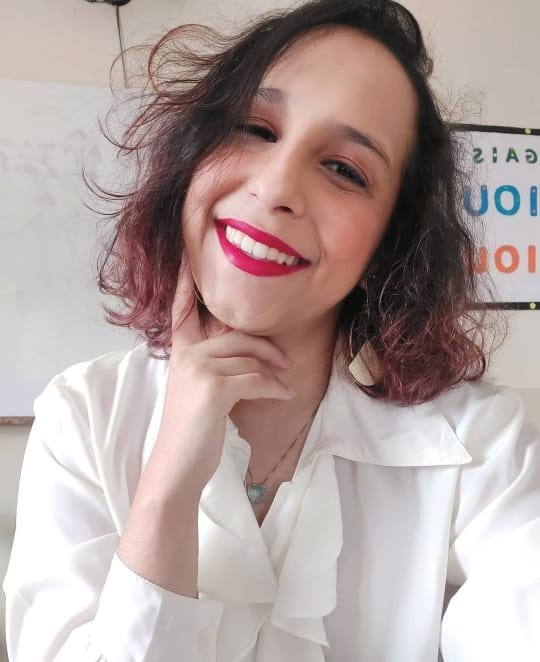
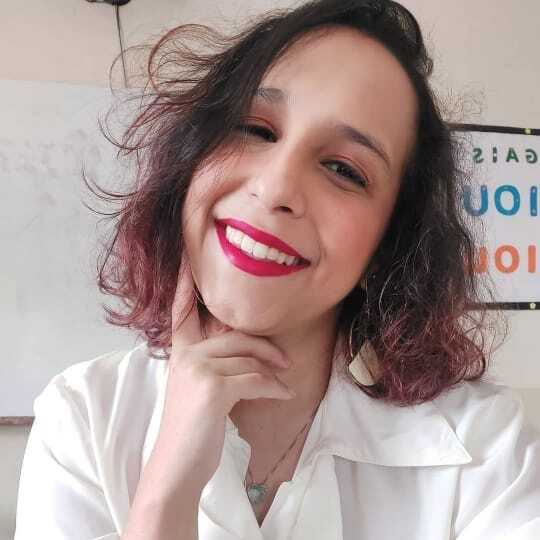
update

diff --git a/index.html b/index.html
@@ -12,9 +12,9 @@
         integrity="sha384-QWTKZyjpPEjISv5WaRU9OFeRpok6YctnYmDr5pNlyT2bRjXh0JMhjY6hW+ALEwIH" crossorigin="anonymous">
 </head>
 
-<body>
+<body style="background-color: #fef8ec;">
 
-    <nav class="navbar navbar-expand-lg">
+    <nav class="navbar navbar-expand-lg" style="background-color: white">
         <div class="container-fluid">
             <a class="navbar-brand" href="#">
                 <img src="images/logo.png" width="50" height="50" alt="LOGO" class="">
@@ -40,8 +40,8 @@
         </div>
     </nav>
 
-    <div class="mb-4 bg-body-tertiary rounded-3">
-        <div class="container-fluid py-5">
+    <div class="mb-4 bg-body-tertiary rounded-3" style="background-color: #fef8ec;">
+        <div class="container-fluid py-5" style="background-color: #fef8ec;">
             <div class="row">
                 <div class="col d-none d-md-flex align-items-center justify-content-center mb-4">
                     <img src="images/logo.png" width="300" height="300" alt="LOGO" class="">
@@ -54,7 +54,7 @@
                         processo terapêutico é uma jornada de autoconhecimento e transformação.
                         "Atendemos adolescentes e adultos. De Brasília para o mundo".
                     </p>
-                    <a href="https://wa.me/5561996015348?text=Olá%2C%20gostaria%20de%20agendar%20uma%20consulta."
+                    <a href="https://wa.me/5561991434632?text=Olá%2C%20gostaria%20de%20agendar%20uma%20consulta."
                         target="_blank" class="btn btn-success"
                         style="display: inline-flex; align-items: center; gap: 8px; text-decoration: none;">
 
@@ -70,48 +70,6 @@
 
                 </div>
 
-            </div>
-        </div>
-    </div>
-
-    <div class="container">
-        <h3 id="especialidades" class="mb-4">Especialidades</h3>
-        <div class="row">
-            <div class="col">
-                <div class="card mx-auto mb-4" style="width: 18rem;">
-                    <img src="images/image01.jpg" width="300" height="200" alt="Psicoterapia">
-                    <div class="card-body">
-                        <h5 class="card-title">Psicoterapia</h5>
-                        <p class="card-text">Psicoterapia é um espaço seguro e confidencial onde você pode explorar
-                            seus pensamentos, sentimentos e comportamentos, com a ajuda de um profissional. É uma
-                            oportunidade para entender melhor a si mesmo, superar desafios emocionais e desenvolver
-                            estratégias para uma vida mais satisfatória e equilibrada..</p>
-                    </div>
-                </div>
-            </div>
-            <div class="col">
-                <div class="card mx-auto mb-4" style="width: 18rem;">
-                    <img src="images/image03.jpg" width="300" height="200" alt="Neuropsicologia">
-                    <div class="card-body">
-                        <h5 class="card-title">Neuropsicologia</h5>
-                        <p class="card-text">Ao buscar a neuropsicologia, você pode obter uma compreensão mais
-                            profunda de suas habilidades mentais, receber suporte para lidar com dificuldades
-                            cognitivas e desenvolver estratégias para otimizar seu funcionamento cerebral e
-                            qualidade de vida.</p>
-                    </div>
-                </div>
-            </div>
-            <div class="col">
-                <div class="card mx-auto mb-4" style="width: 18rem;">
-                    <img src="images/image02.jpg" width="300" height="200" alt="Psiquiatria">
-                    <div class="card-body">
-                        <h5 class="card-title">Psiquiatria</h5>
-                        <p class="card-text">Psiquiatria é a especialidade que cuida do diagnóstico, tratamento e
-                            prevenção de distúrbios mentais, emocionais e comportamentais. Combinando abordagens
-                            clínicas, terapêuticas e farmacológicas ajudamos a gerenciar condições como depressão,
-                            ansiedade, transtorno bipolar e esquizofrenia.</p>
-                    </div>
-                </div>
             </div>
         </div>
     </div>
@@ -146,7 +104,7 @@
                 <div class="col-lg-4 mb-4">
                     <img src="images/gabriela.jpeg" width="140" height="140" class="rounded-circle mb-3"
                         alt="Gabriela Duarte">
-                    <h2>Gabriela Duarte</h2>
+                    <h2>Gabriella Duarte</h2>
                     <h5 class="text-muted">CRP: 01/22249</h5>
                     <p>Com uma abordagem empática e humanizada, Gabriela acolhe adolescentes e adultos em suas jornadas
                         de cuidado emocional. Seu trabalho é guiado pela escuta ativa, pelo respeito e pelo compromisso

diff --git a/README.md b/README.md
@@ -20,3 +20,13 @@ Things you may want to cover:
 * Services (job queues, cache servers, search engines, etc.)
 
 * Deployment instructions
+
+
+-----------------------------------------------------------------------------
+Só tirar a parte de "especialidades" 
+
+A cor de fundo poderia ser um creme, no mesmo creme que tem na logo
+
+E as fotos estão esticadas
+
+
